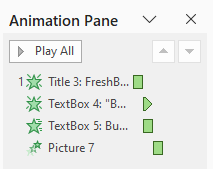
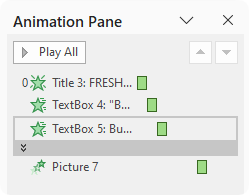
M

diff --git a/materi-powerpoint.html b/materi-powerpoint.html
@@ -3599,16 +3599,16 @@
                                 <div class="row mt-2">
                                   <div class="col-md-6">
                                     <ul class="list-unstyled">
-                                      <li><strong>Layout:</strong> <strong>Title Slide</strong></li>
-                                      <li>Judul : <strong>FRESHBOX</strong></li>
-                                      <li>Tagline : "Belanja Sayur Segar, Praktis dalam Sekali Klik."</li>
-                                      <li>Isi :
+                                      <li>Judul : "<strong>FRESHBOX</strong>", <strong>Font</strong> 40 pt</li>
+                                      <li>Tagline : <em>"Belanja Sayur Segar, Praktis dalam Sekali Klik."</em>, <strong>Font</strong> 18 pt, italic</li>
+                                      <li><strong>Isi</strong> :
                                         <ul class="mb-2">
                                           <li>Business Pitch</li>
                                           <li>Nama Presenter</li>
                                           <li>Nama Perusahaan</li>
                                           <li>Tanggal Presentasi</li>
                                         </ul>
+                                        <strong>Font</strong> 18 pt, <strong>Line Spacing</strong> 2.0
                                       </li>
                                       <li>Gambar Sayur di sebelah kanan
                                         <div class="py-1 ms-2 mb-2">
@@ -3626,6 +3626,8 @@
                                           <li>TextBox: <strong>Wipe</strong>, <i class="bi bi-clock-history"></i> Start
                                             After Previous</li>
                                           <li>TextBox: <strong>Wipe</strong>, <i class="bi bi-clock-history"></i> Start
+                                            After Previous</li>
+                                          <li>Sayur: <strong>Zoom</strong>, <i class="bi bi-clock-history"></i> Start
                                             After Previous</li>
                                         </ul>
                                       </li>
